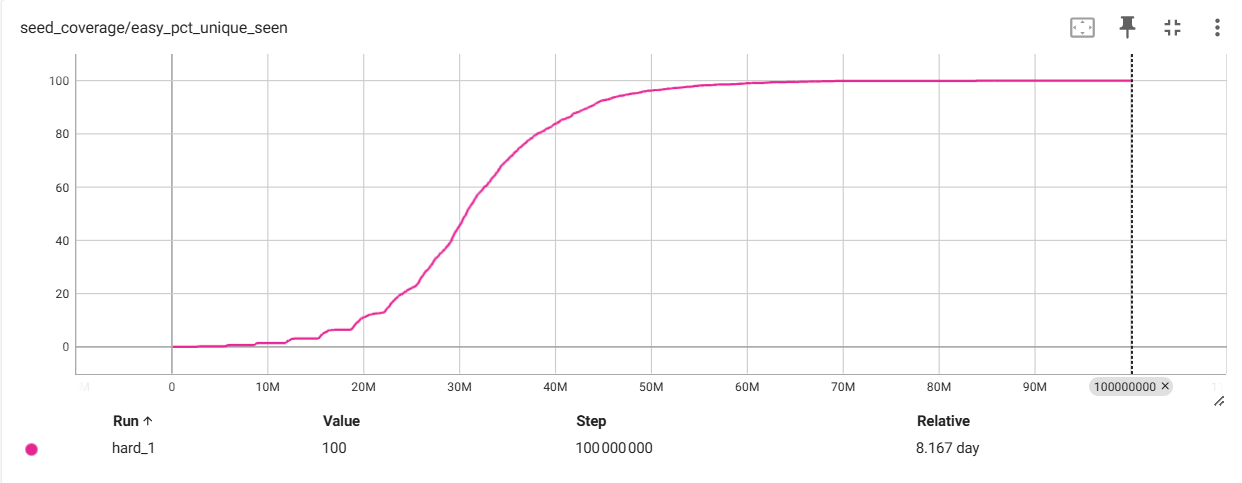
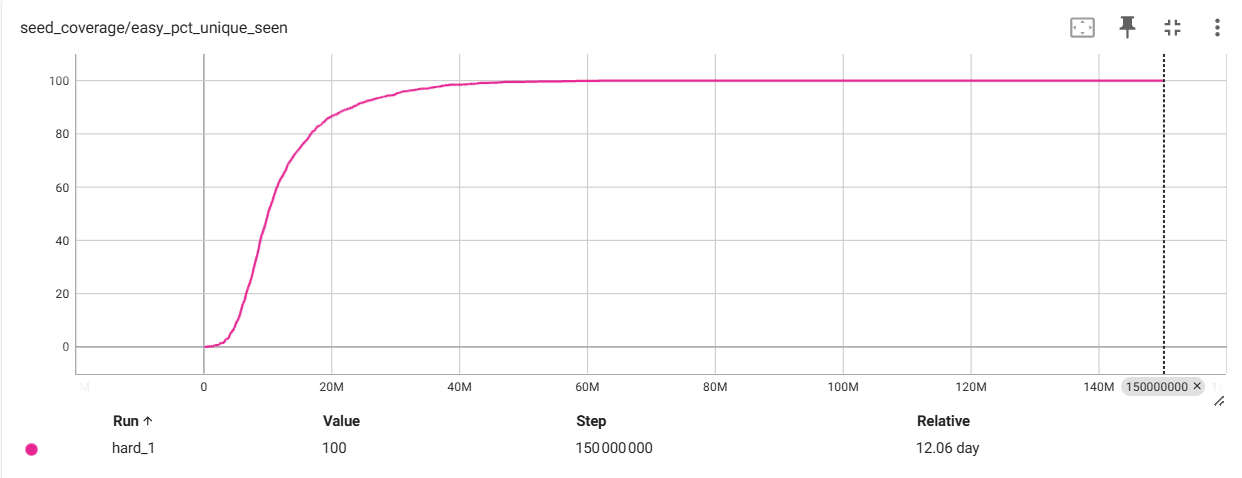
feat: Results of training

diff --git a/README.md b/README.md
@@ -577,7 +577,7 @@ I also tested **Middle schooler Billy :)** on easy and hard tests sets too. On d
 
 Now the last step of training. Like already said in previous versions, the difficulty of hard level seeds is that they require the agent to be able to "give up" on the reward signal momentarily and go around large walls to finally be able to attain its goal. `PPO` wasn't able to do that. And we are now trying to see if `RecurrentPPO` can help. 
 
-<!-- I trained the agent for **100,000,000 timesteps**. After just that, the agent was able to achieve a better performance than the previous versions. 
+I trained the agent for **150,000,000 timesteps**. The agent was able to achieve a better performance than the previous versions. 
 
 <table align="center">
   <tr>
@@ -729,7 +729,6 @@ Now on easy and medium levels :
   </tr>
 </table>
 
--->
 
 <br />
 <br />
